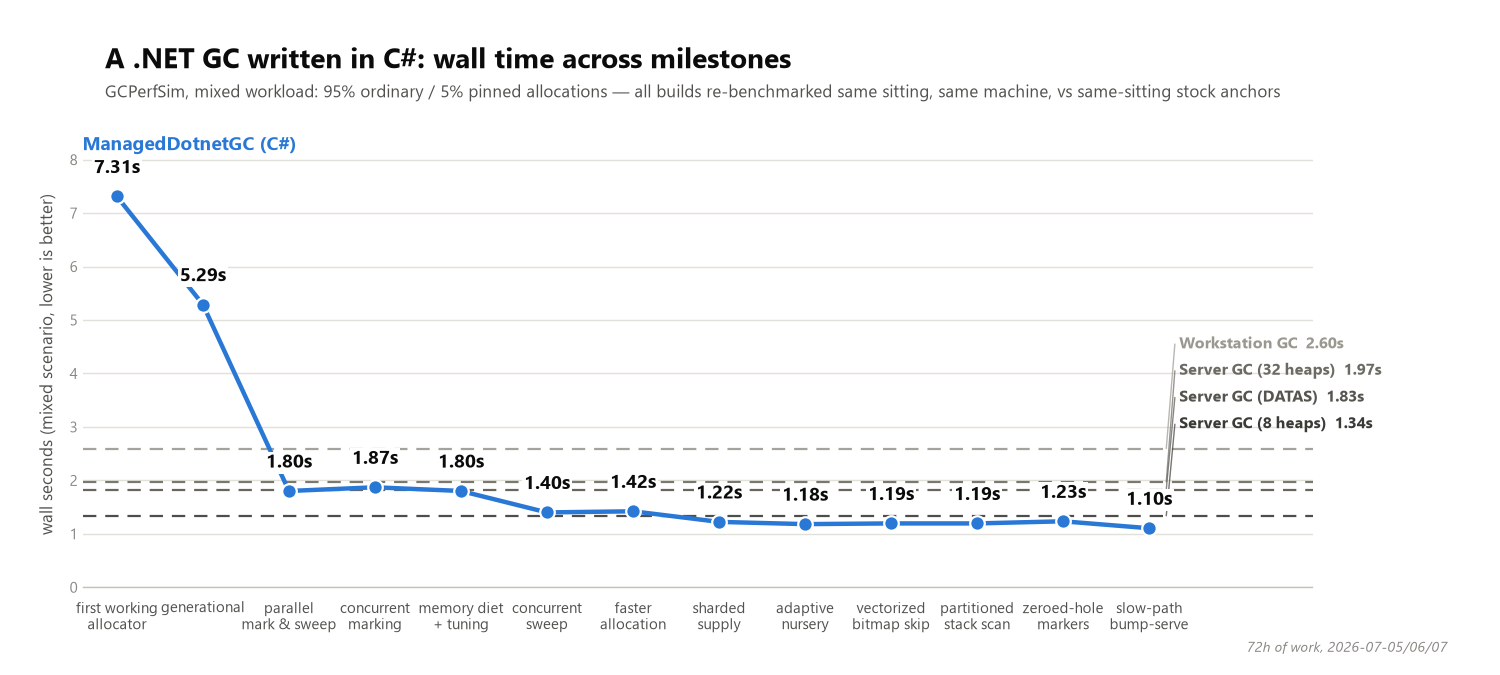
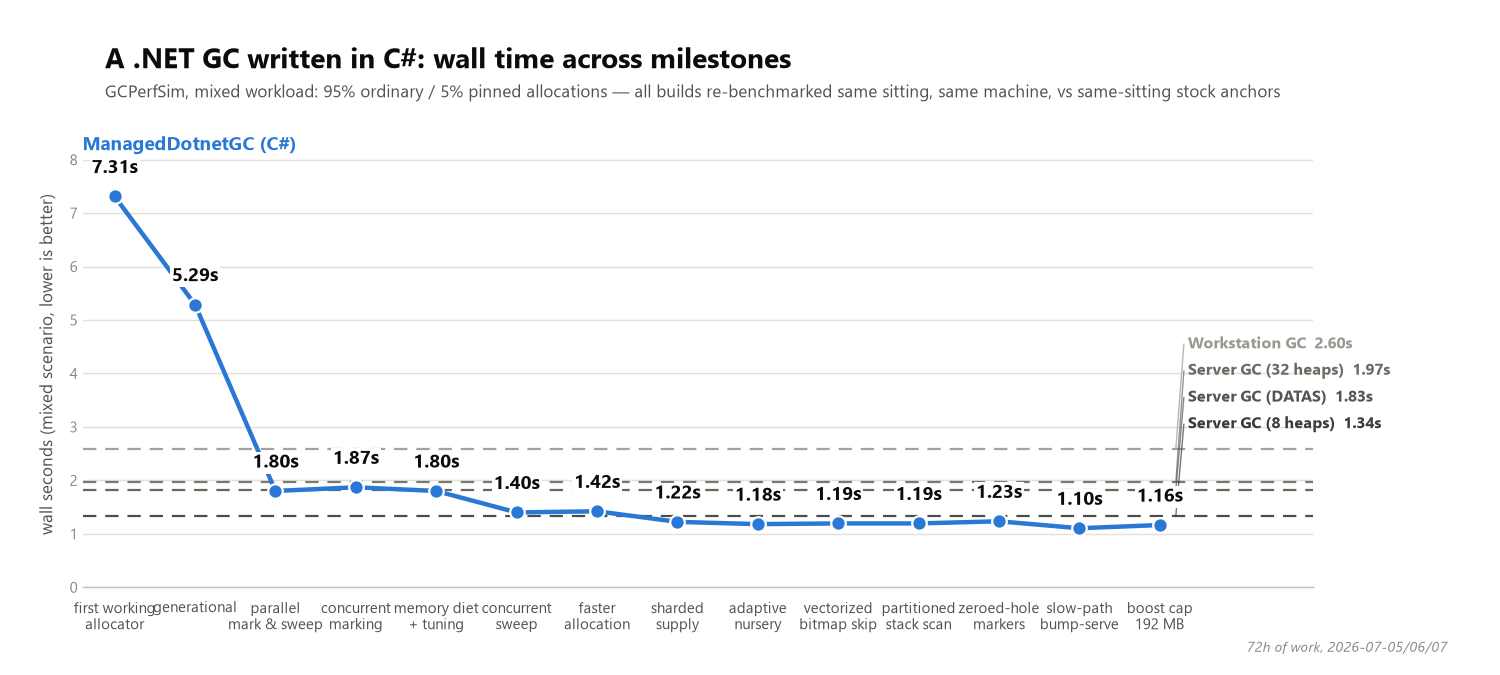
results: M9.1 charts + roadmap row

diff --git a/experiments/results/2026-07-07-fortunes-milestone-graph/plot_fortunes_rps.py b/experiments/results/2026-07-07-fortunes-milestone-graph/plot_fortunes_rps.py
@@ -32,6 +32,13 @@ milestones = [
     # M9 slow-path bump-serve: kills the 20x carve inflation that drove
     # suspension frequency — first stage past Workstation GC and Server GC (32 heaps).
     ("slow-path\nbump-serve", 80595),
+    # M9.1 boost cap 192 MB (2026-07-07, separate same-day sitting, sha 70be506,
+    # label m9r-cap192 in techempower-history.csv): residual-gap profile found the
+    # 448 MB boost bought no RPS, so it's capped. This point and its own stock-h8
+    # anchor (83,798 — NOT the 88,057 cluster above, a different sitting) come from
+    # that later sitting; rps is plotted on the hero line as reported (80,408) rather
+    # than re-normalized against the earlier cluster.
+    ("boost cap\n192 MB", 80408),
 ]
 
 # (label, line y, explicit label y). The four stock anchors are clustered within
@@ -87,14 +94,23 @@ for label, val, label_y, color in stock_refs:
 ax.plot(xs, ys, color=MAIN_COLOR, linewidth=3.2, zorder=4, solid_capstyle="round")
 ax.scatter(xs, ys, s=110, color=MAIN_COLOR, zorder=5, edgecolors="white", linewidths=1.6)
 
-# value labels above each point. White halo bbox: the last hero point (80.6k) sits
-# right at the Server GC (32 heaps) dashed line, so a plain label would get a
-# strikethrough from the dashed line running behind it.
+# value labels above each point. White halo bbox: several hero points (80.6k, 80.4k)
+# sit right at the Server GC (32 heaps) dashed line, so a plain label would get a
+# strikethrough from the dashed line running behind it. The last two points (M9
+# 80.6k, M9.1 80.4k) are one x-unit apart at nearly the same height, so an "above"
+# label on both collides — M9.1's label drops BELOW its point instead, into the
+# wide-open band between the hero tail and the M8-stage points.
 label_offset = (ymax - ymin) * 0.045
+last_x = xs[-1]
 for x, y in zip(xs, ys):
-    ax.annotate(f"{y/1000:.1f}k", (x, y), xytext=(0, 14), textcoords="offset points",
-                ha="center", va="bottom", fontsize=13.5, fontweight="bold", color=INK, zorder=6,
-                bbox=dict(facecolor="white", edgecolor="none", pad=1.5))
+    if x == last_x:
+        ax.annotate(f"{y/1000:.1f}k", (x, y), xytext=(0, -18), textcoords="offset points",
+                    ha="center", va="top", fontsize=13.5, fontweight="bold", color=INK, zorder=6,
+                    bbox=dict(facecolor="white", edgecolor="none", pad=1.5))
+    else:
+        ax.annotate(f"{y/1000:.1f}k", (x, y), xytext=(0, 14), textcoords="offset points",
+                    ha="center", va="bottom", fontsize=13.5, fontweight="bold", color=INK, zorder=6,
+                    bbox=dict(facecolor="white", edgecolor="none", pad=1.5))
 
 # x tick labels
 ax.set_xticks(xs)

diff --git a/experiments/results/2026-07-07-fortunes-milestone-graph/plot_fortunes_ws.py b/experiments/results/2026-07-07-fortunes-milestone-graph/plot_fortunes_ws.py
@@ -26,6 +26,12 @@ milestones = [
     ("zeroed-hole\nmarkers", 1198),
     # M9 slow-path bump-serve claws ~270 MB of that back while ALSO gaining RPS.
     ("slow-path\nbump-serve", 990),
+    # M9.1 boost cap 192 MB (2026-07-07, separate same-day sitting, sha 70be506,
+    # label m9r-cap192 in techempower-history.csv): the 448 MB boost bought no RPS,
+    # so it's capped — WS drops another ~300 MB, now below that sitting's own
+    # stock-h8 anchor (731 MB, not the 726 MB in the cluster above — a different
+    # sitting).
+    ("boost cap\n192 MB", 683),
 ]
 
 # (label, line y, explicit label y). Unlike the wall/RPS charts the four anchors are

diff --git a/experiments/results/2026-07-06-milestone-graph/plot_milestones_nonum.py b/experiments/results/2026-07-06-milestone-graph/plot_milestones_nonum.py
@@ -35,6 +35,11 @@ milestones = [
     # M9 (2026-07-07): slow-path bump-serve — 20x carve inflation was the
     # suspension-frequency mechanism; best mixed wall of the series.
     ("slow-path\nbump-serve", 1.104),
+    # M9.1 (2026-07-07, sha 70be506, label m9r-cap192-smoke): boost cap 448->192 MB
+    # — the web-workload residual-gap profile found the larger boost bought no rps,
+    # so it's capped; wall-neutral here as expected (smoke sitting: iters 1.158,
+    # 1.164, 1.228 — median 1.164).
+    ("boost cap\n192 MB", 1.164),
 ]
 
 # (label, line y, explicit label y — slots picked to clear every dashed line and each

diff --git a/experiments/results/2026-07-06-milestone-graph/plot_milestones_ws.py b/experiments/results/2026-07-06-milestone-graph/plot_milestones_ws.py
@@ -27,6 +27,9 @@ milestones = [
     ("partitioned\nstack scan", 1.972),
     ("zeroed-hole\nmarkers", 1.971),
     ("slow-path\nbump-serve", 1.946),
+    # M9.1 (2026-07-07, sha 70be506, label m9r-cap192-smoke): boost cap 448->192 MB;
+    # median peak_ws_mb 2130.8 / 1024 (smoke sitting: iters 2130.8, 2005.2, 2266.9).
+    ("boost cap\n192 MB", 2.081),
 ]
 
 # (label, line y, explicit label y). DATAS discovery 2026-07-06: bare gcServer=1 is

diff --git a/experiments/results/2026-07-06-milestone-graph/plot_milestones.py b/experiments/results/2026-07-06-milestone-graph/plot_milestones.py
@@ -23,6 +23,7 @@ milestones = [
     ("partitioned\nstack scan", 1.194),
     ("zeroed-hole\nmarkers", 1.234),
     ("slow-path\nbump-serve", 1.104),
+    ("boost cap\n192 MB", 1.164),
 ]
 
 stock_refs = [

diff --git a/ROADMAP.md b/ROADMAP.md
@@ -78,6 +78,7 @@ Region-based, size-class segregated, **non-moving**, sticky-generation mark & sw
 
 | M8 ✅ | **Adaptive nursery + web-workload war** (TechEmpower vs tuned stock-svr-h8) | Young-budget boost for tiny-live/huge-alloc heaps (fortunes 0.43→0.80×, queries 0.33→0.75×, 2026-07-07); M8.2 partitioned stack scanning (roots p50 −70%); M8.3 per-hole zeroed markers (background zeroer's work no longer forfeited by the sweep) |
 | M9 ✅ | **Slow-path bump-serve** — the suspension-frequency mechanism | Always-slow-path allocations (finalizable, ~1.45/req) forfeited a ~113 KB window per ~70-byte object: 97% of handouts discarded a fitting remainder, carve+zero ~11 GB/s vs a true 552 MB/s. Serving the slow path from the live context + controller/demand recalibration (absolute-survivor-mass gates, boost retains ×1) took young GCs 1625→131/run: **fortunes 0.94×, queries 0.97× at WS below stock, updates 0.98× vs same-sitting tuned stock-svr-h8** (6b6b106, results/2026-07-07-m9-slowpath-bump-serve.md) |
+| M9.1 ✅ | **Boost cap 192 MB** — residual-gap profile closes the loop | Same-sitting ETW diff (EtlCpu) found GC CPU nets to zero vs stock; three clean negatives (nursery size 256–512, temporal zeroing, GC frequency) all RPS-flat down to a 256 MB budget, so the 448 MB boost bought nothing — capped at 192 (budget 256, demand 320): **fortunes WS 983→683 MB (below stock-h8 731), queries 448 MB, updates 429 MB, RPS unchanged 0.95–0.98×** vs same-sitting tuned stock-svr-h8; gates 56/56, GcStress ×3 (`70be506`, results/2026-07-07-m9-residual-profile.md) |
 
 Sequencing note: missing-features items 1.1/1.2/1.3/8.3 are deliberately pulled *out* of
 M1 and *into* M2 — implementing memory reuse and triggering on the placeholder

diff --git a/experiments/results/2026-07-07-fortunes-milestone-graph/summary.md b/experiments/results/2026-07-07-fortunes-milestone-graph/summary.md
@@ -48,6 +48,7 @@ outright under load.
 | 11 | Partitioned stack scan | `8b8bcbd` | **72,137** | **1,262** | clean |
 | 12 | Zeroed-hole markers | `8868c22` | **71,749** | **1,198** | clean |
 | 13 | Slow-path bump-serve | `6b6b106` | **80,595** | **990** | clean |
+| 14 | Boost cap 192 MB | `70be506` | **80,408** | **683** | separate same-day sitting (label `m9r-cap192`); own stock-svr-h8 anchor 83,798 rps / 731 MB (label `m9r-stockh8`) — not comparable to the stock cluster above |
 
 ### Error annotations (no failed stages)
 
@@ -77,8 +78,15 @@ outright under load.
   (wks). The adaptive nursery bought its throughput with the series' working-set peak
   (1.6 GB); M9 clawed ~270 MB of that back while also gaining rps. Only Server GC
   (32 heaps) (2.1 GB) is hungrier.
+- **M9.1 boost cap 192 MB** (`70be506`, separate same-day sitting): a residual-gap
+  profile found the 448 MB boost bought no rps (nursery size was RPS-flat down to a
+  256 MB budget), so it's capped at 192. Rps is unchanged (80,408, 0.998× the M9
+  stage) while WS drops another 307 MB to 683 — below that sitting's own stock-svr-h8
+  anchor (731 MB), at 0.96× its rps (83,798).
 
 Machine state: normal desktop background; Docker Desktop (Linux engine) running the
 Postgres container during all rows, including the stock anchors. Raw rows (labels
 `msf-1`…`msf-13`, `msf-2-retry`, `msf-8-retry`, `msf-stock-*`) in
-`experiments/results/techempower-history.csv`.
+`experiments/results/techempower-history.csv`; M9.1's own row (label `m9r-cap192`,
+`m9r-stockh8`) is a separate later sitting the same day, kept apart from the
+`msf-*` backfill per the cross-sitting drift caveat above.
